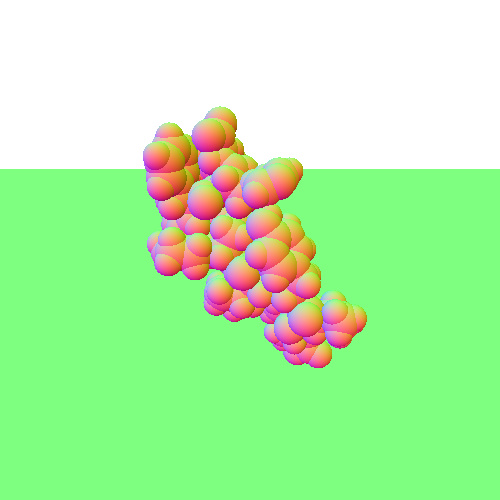
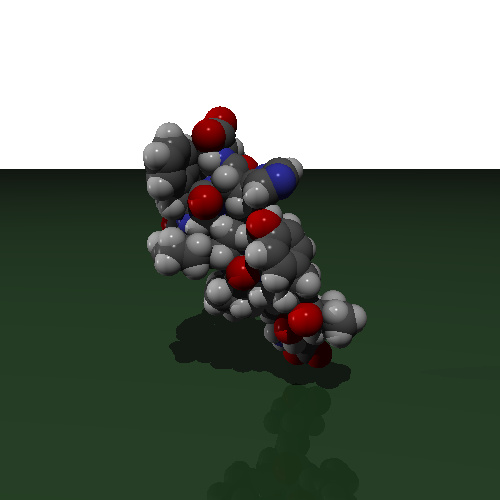
Completed Mesh::intersect_triangle()
-Fixed expected_results files
-Added support method Mesh::determinant()

diff --git a/src/Mesh.cpp b/src/Mesh.cpp
@@ -17,6 +17,7 @@
 #include <limits>
 #include <cmath>
 #include <filesystem>
+#include <array>
 #include "vec3.h"
 
 
@@ -297,22 +298,57 @@ bool
     const vec3& p1 = vertices_[_triangle.i1].position;
     const vec3& p2 = vertices_[_triangle.i2].position;
 
-    /** \todo
-    * - intersect _ray with _triangle
-    * - store intersection point in `_intersection_point`
-    * - store ray parameter in `_intersection_t`
-    * - store normal at intersection point in `_intersection_normal`.
-    * - Depending on the member variable `draw_mode_`, use either the triangle
-    *  normal (`Triangle::normal`) or interpolate the vertex normals (`Vertex::normal`).
-    * - return `true` if there is an intersection with t > 0 (in front of the viewer)
-    *
-    * Hint: Rearrange `ray.origin + t*ray.dir = a*p0 + b*p1 + (1-a-b)*p2` to obtain a solvable
-    * system for a, b and t.
-    * Refer to [Cramer's Rule](https://en.wikipedia.org/wiki/Cramer%27s_rule) to easily solve it.
-     */
+    vec3 columnVector = (p0 - _ray.origin);
 
-    return false;
+    //calculate determinants
+    double detA = determinant(_ray.direction,(p0 - p1),(p0 - p2));
+    double detT = determinant(columnVector,(p0 - p1),(p0 - p2));
+    double detBeta = determinant(_ray.direction,columnVector,(p0 - p2));
+    double detGamma = determinant(_ray.direction,(p0 - p1),columnVector);
+
+    //get solutions via cramer's rule
+    double t = detT / detA;
+    double beta = detBeta / detA;
+    double gamma = detGamma / detA;
+
+    //no need for further computation if any of the following apply
+    if (t <= 0 || beta < 0 || gamma < 0 || beta + gamma > 1) {
+        return false;
+    }
+
+    _intersection_t = t;
+    _intersection_point = t * _ray.direction + _ray.origin;
+
+    if (draw_mode_ == FLAT) {
+        _intersection_normal = _triangle.normal;
+    }
+    else if (draw_mode_ == PHONG) { //interpolate vertex normals
+        double alpha = 1 - beta - gamma;
+        const Vertex& v0 = vertices_[_triangle.i0];
+        const Vertex& v1 = vertices_[_triangle.i1];
+        const Vertex& v2 = vertices_[_triangle.i2];
+
+        _intersection_normal = normalize(alpha*v0.normal + beta*v1.normal + gamma*v2.normal);
+    }
+
+    return true;
 }
 
+double
+    Mesh::
+    determinant(vec3 v1, vec3 v2, vec3 v3) const {
+
+    double posProdSum[3] = {(v1[0]*v2[1]*v3[2]),(v2[0]*v3[1]*v1[2]),(v3[0]*v1[1]*v2[2])};
+    double negProdSum[3] = {(v3[0]*v2[1]*v1[2]),(v2[0]*v1[1]*v3[2]),(v1[0]*v3[1]*v2[2])};
+
+    double sum1 = 0;
+    double sum2 = 0;
+
+    for (int i = 0; i < 3; i++) {
+        sum1 += posProdSum[i];
+        sum2 += negProdSum[i];
+    }
+    return (sum1 - sum2);
+}
 
 //=============================================================================

diff --git a/src/Scene.cpp b/src/Scene.cpp
@@ -149,7 +149,8 @@ vec3 Scene::lighting(const vec3& _point, const vec3& _normal, const vec3& _view,
         vec3 specular = vec3(0);
 
         vec3 shadowOrigin = _point + (1e-6 * _normal); //slightly displace origin to avoid float rounding errors
-        Ray shadowRay(shadowOrigin,(light.position - _point));
+        vec3 shadowDir = normalize(light.position - _point);
+        Ray shadowRay(shadowOrigin,shadowDir);
 
         //dummy objects for intersect function
         Object_ptr shadowObject;
@@ -161,7 +162,7 @@ vec3 Scene::lighting(const vec3& _point, const vec3& _normal, const vec3& _view,
         //if shadowRay intersects with an object
         if(intersect(shadowRay,shadowObject,shadowPoint,shadowNormal,shadowT)) {
             //if intersected object is closer than light source
-            if (norm(light.position - shadowPoint) < norm(light.position - _point)) {
+            if (norm(light.position - shadowPoint) > shadowT) {
                 isShadowed = true;
             }
         }
@@ -183,7 +184,7 @@ vec3 Scene::lighting(const vec3& _point, const vec3& _normal, const vec3& _view,
             }
 
 
-            color += (diffuse+specular) * light.color;
+            color += (diffuse + specular) * light.color;
         }
 
     }

diff --git a/src/Mesh.h b/src/Mesh.h
@@ -90,6 +90,11 @@ public:
                             vec3&            _intersection_point,
                             vec3&            _intersection_normal,
                             double&          _intersection_t) const;
+    
+    ///Compute determinant of a given 3x3 matrix (in vector form)
+    double determinant(vec3 v1,
+                       vec3 v2,
+                       vec3 v3) const;
 
 private:
     /// Does this mesh use flat or Phong shading?
